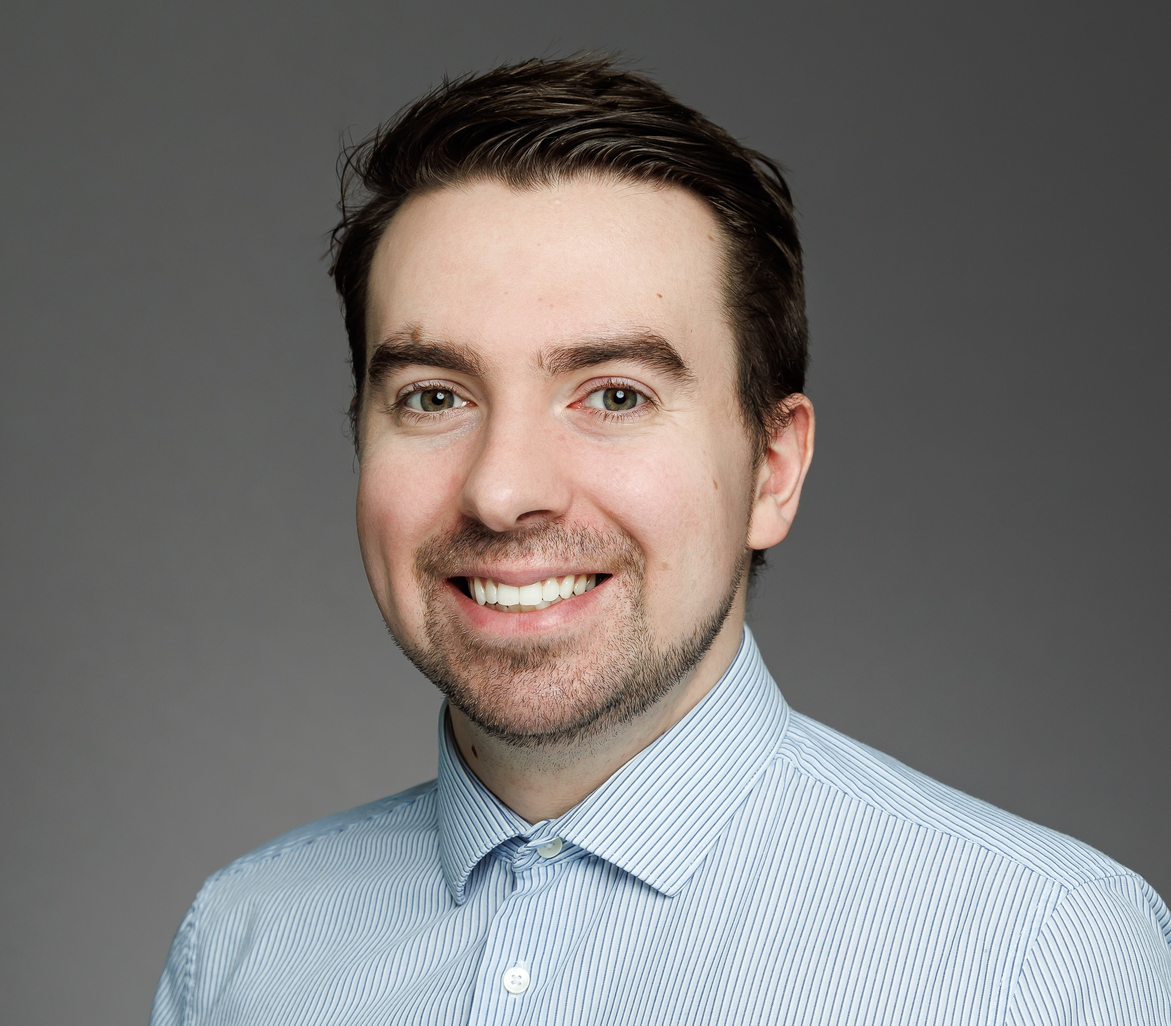
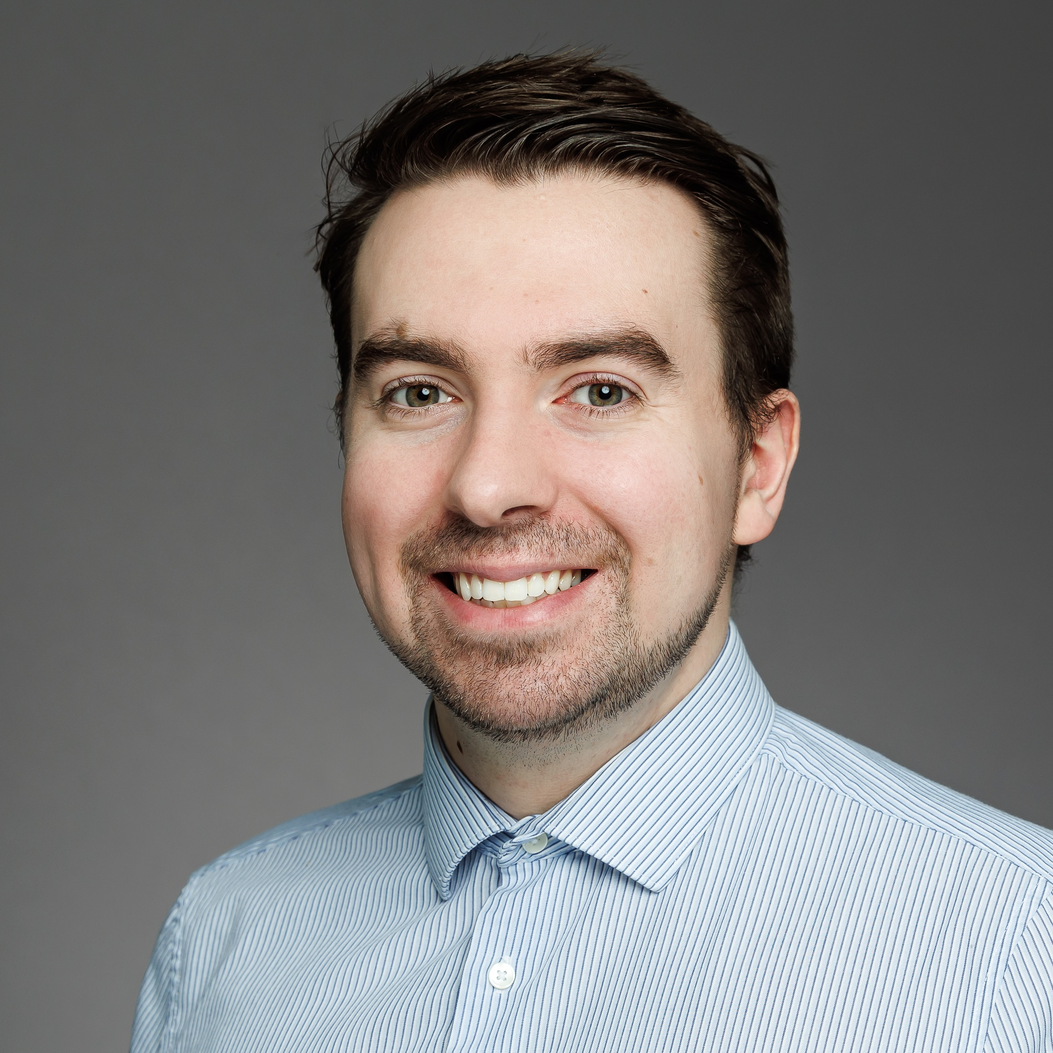
more work on photo

diff --git a/assets/css/custom.css b/assets/css/custom.css
@@ -6,7 +6,6 @@
     font-size: 22px !important;
 }
 
-.author__avatar>.u-photo {
-    width: 150px !important;
-    height: auto !important;
+.author__avatar img {
+    max-width: 170px !important;
 }
